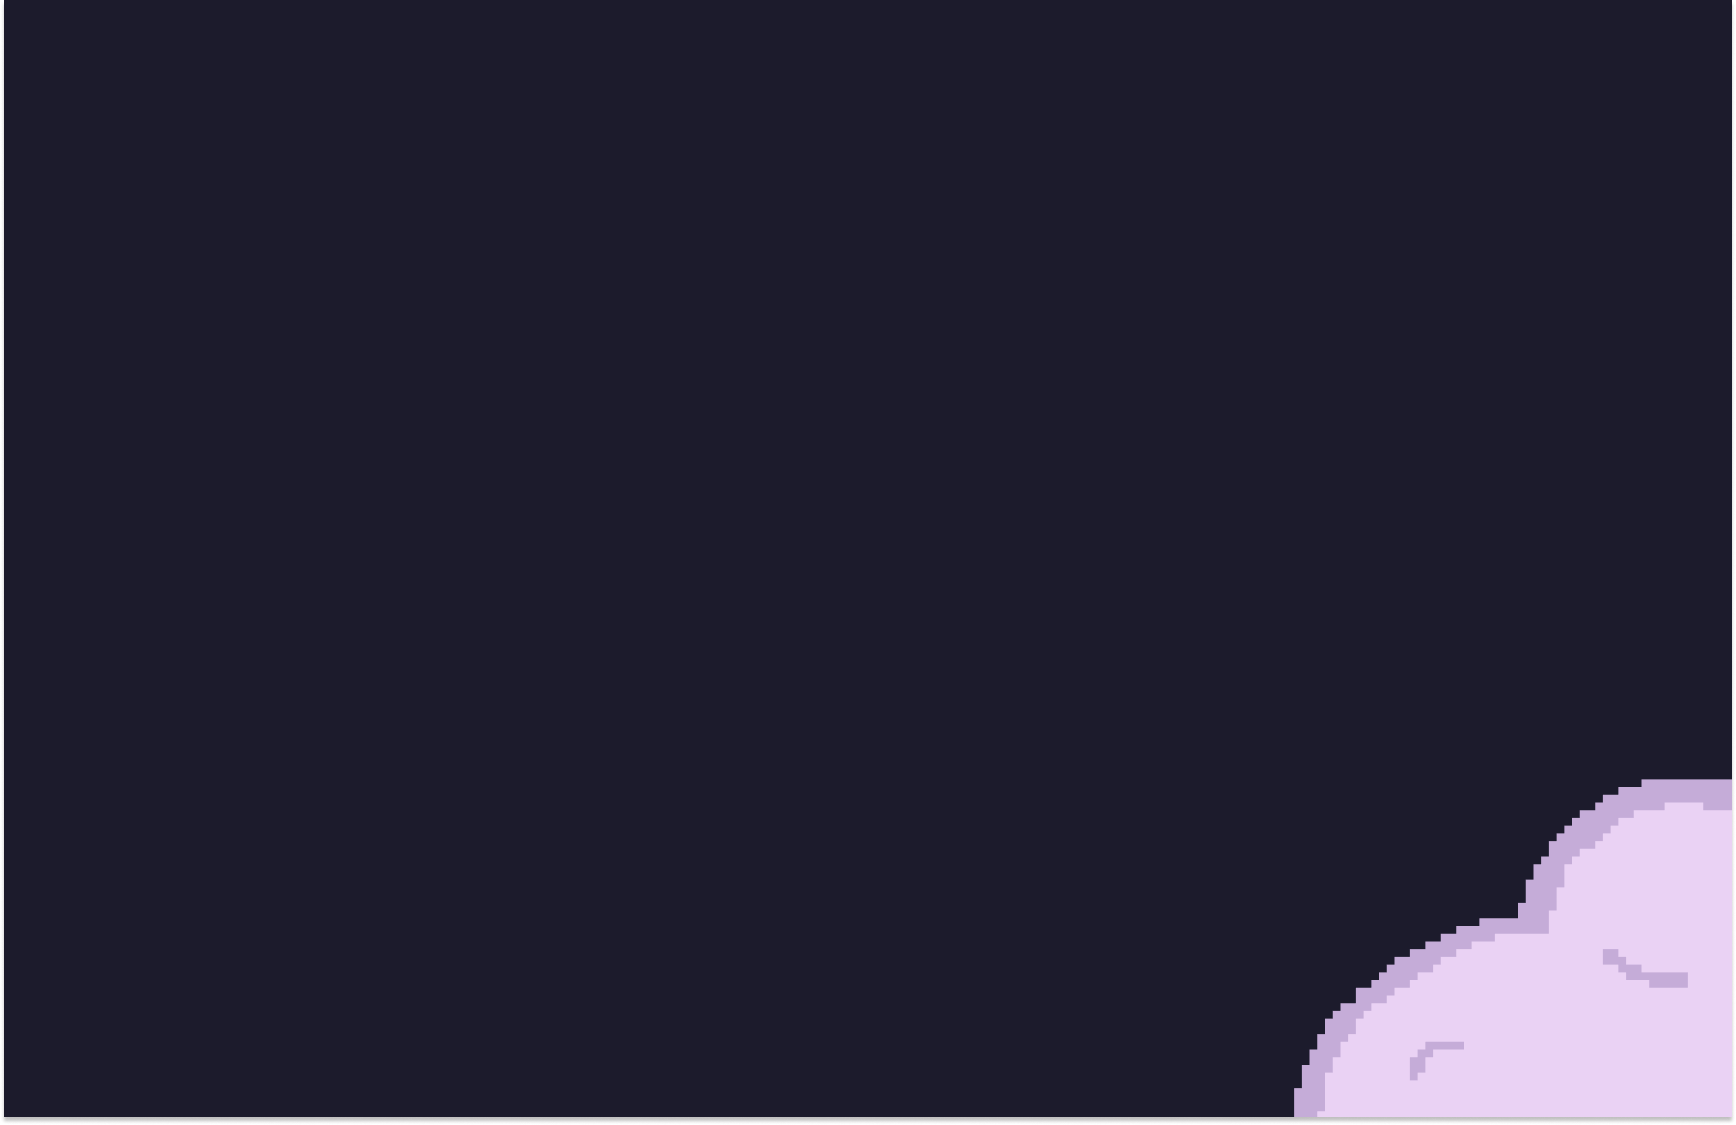
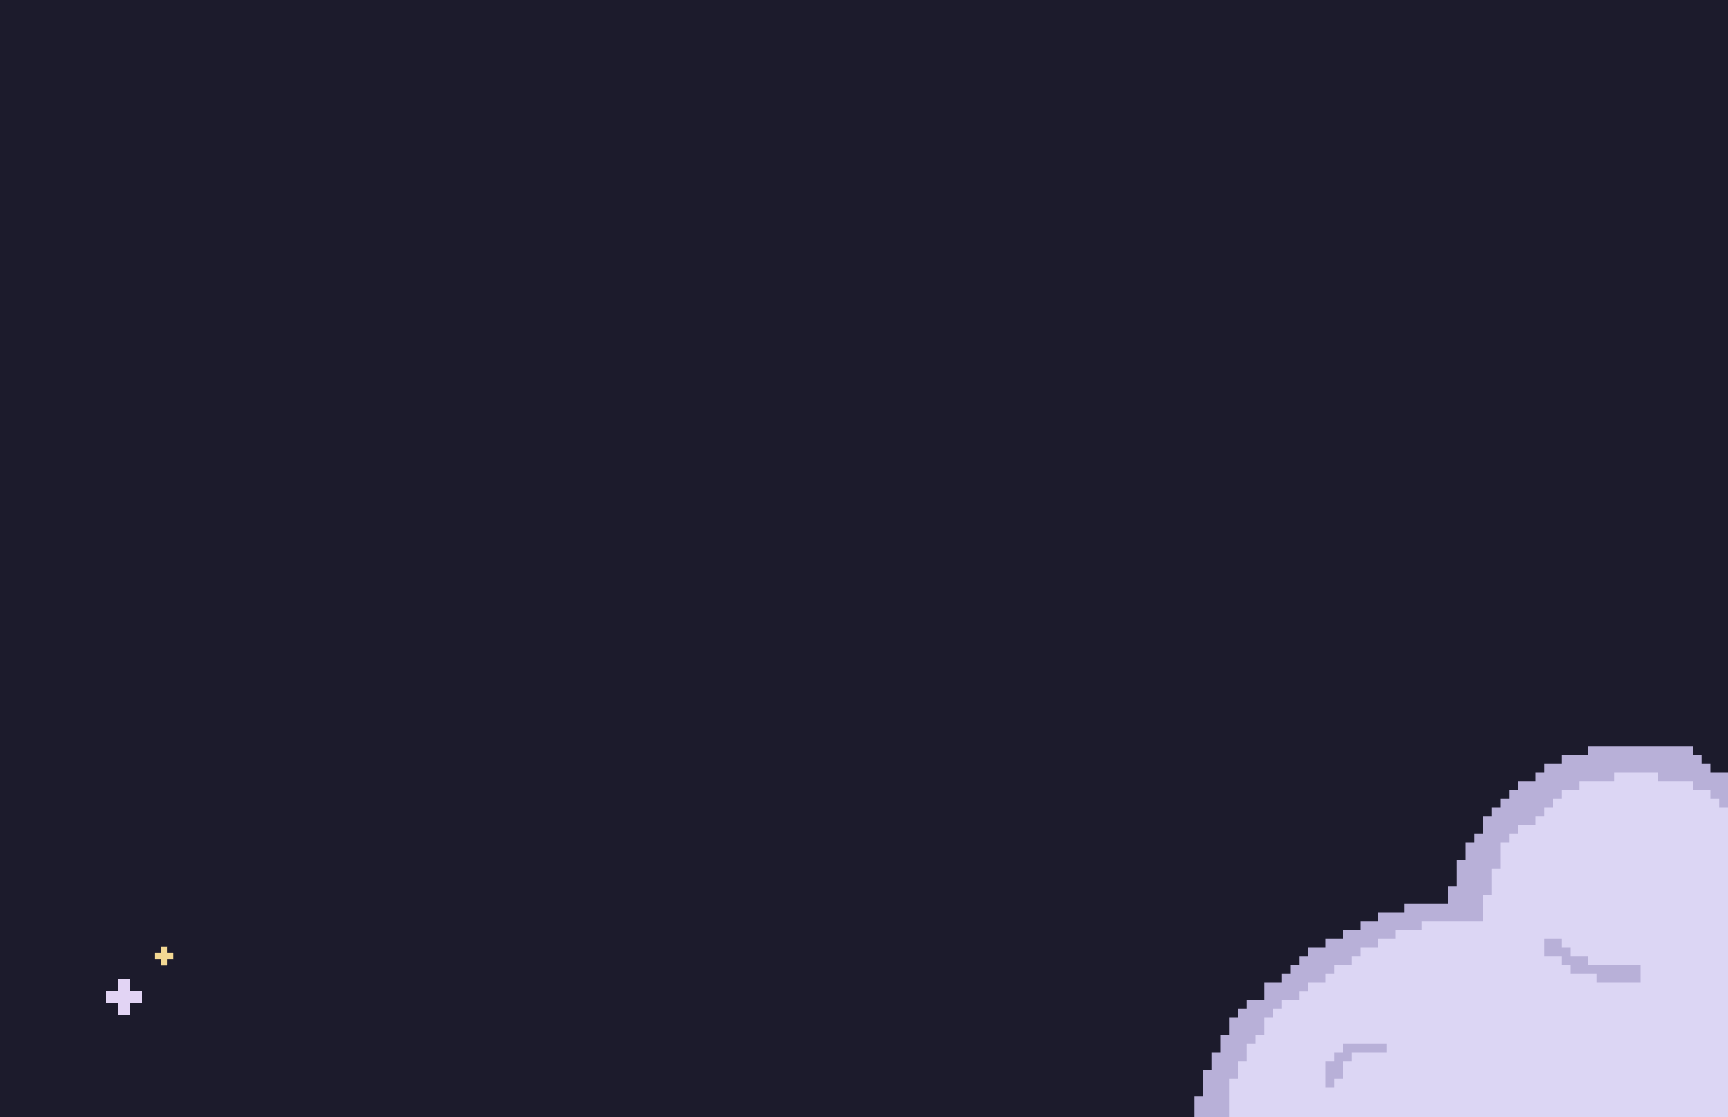
finished, bg img removed for instruction #3

Changed region(s): [[0.0, 0.6697, 1.0, 1.0], [0.0625, 0.8827, 0.0938, 0.9132]]

diff --git a/styles/styles.css b/styles/styles.css
@@ -16,13 +16,12 @@
     --nepColor: linear-gradient(#355db9, #1942a2);
 }
 
-
 body {
     font-family: 'Rubik', sans-serif;
-    background: url(/images/bg.png);
+    background: var(--darkMain);
     background-size: 100%;
-    margin: 5% 10%;
-    
+    background-position: 40% 40%;
+    padding: 5% 10%;
 }
 
 h1, h2, p {
